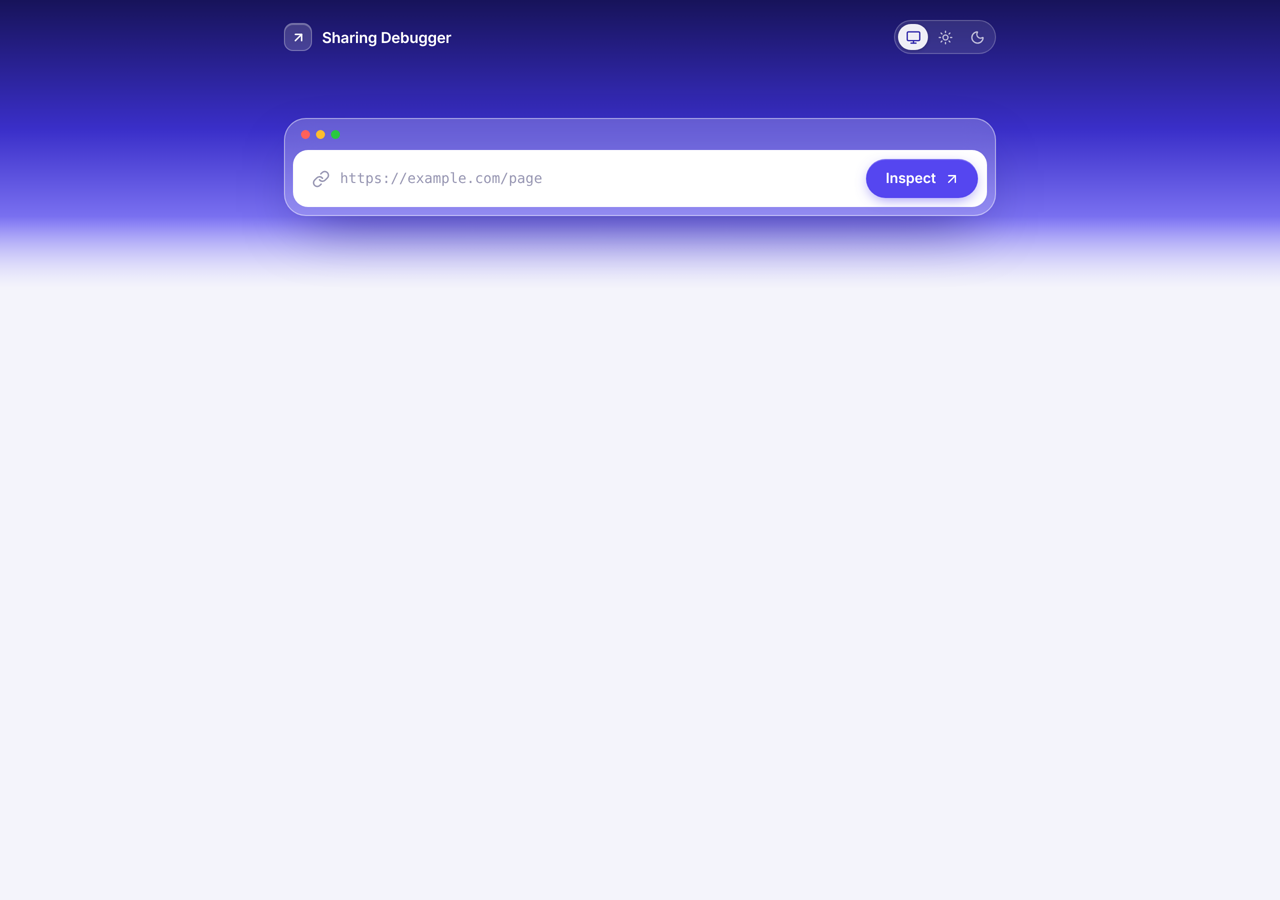
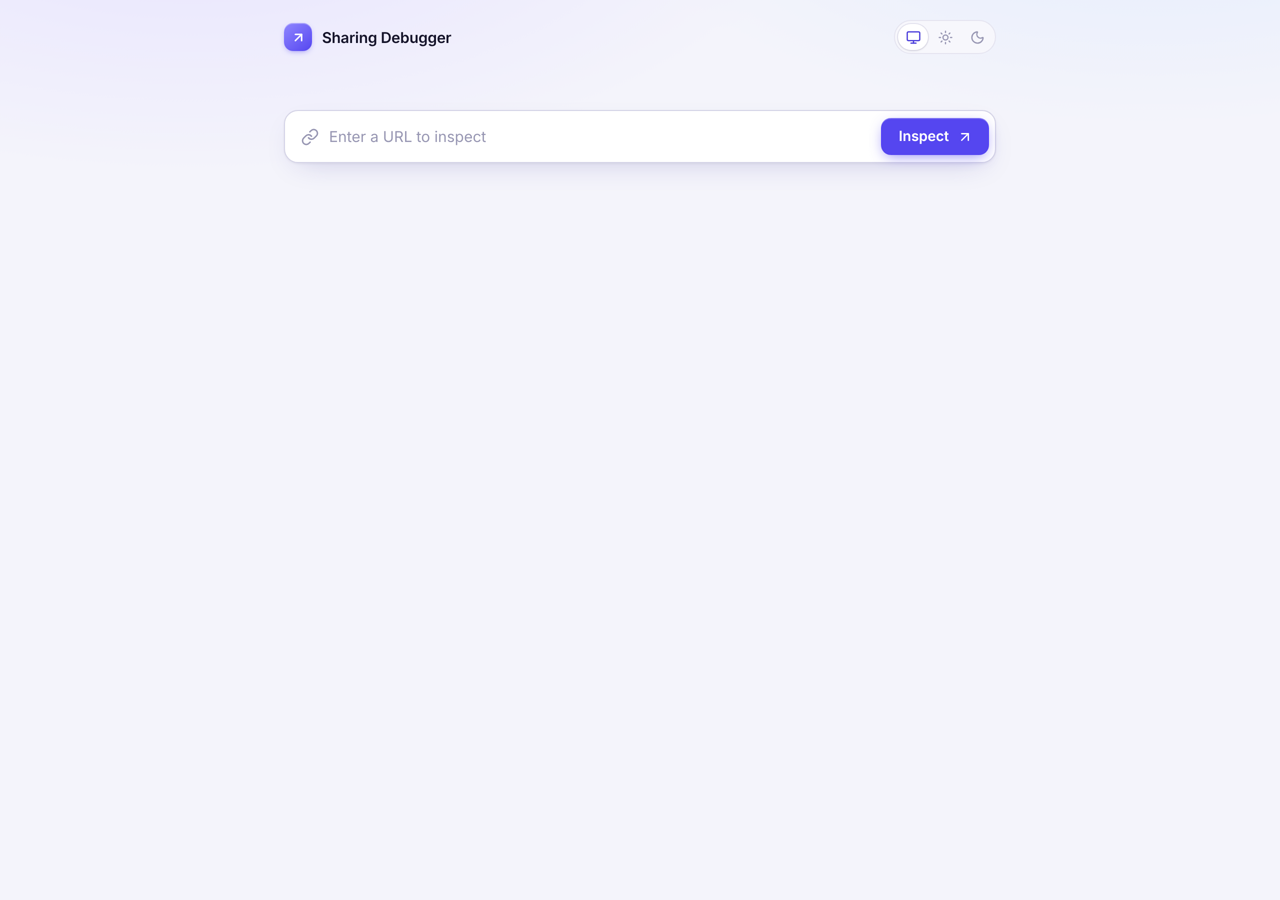
Soften background, simplify URL field, center preview card
Replace the vibrant gradient band with a faint lavender wash, drop the
window-chrome frame so the URL input is a plain field with an
'Enter a URL to inspect' placeholder, and center the preview tabs and card.

Claude-Session: https://claude.ai/code/session_01VVeQM7PuvHXBK4juM8KUdd

Changed region(s): [[0.0, 0.0, 1.0, 0.3111]]

diff --git a/public/style.css b/public/style.css
@@ -10,8 +10,8 @@
   --accent: #5546f0;
   --accent-hover: #4637e2;
   --accent-text: #4a3ddb;
-  --band: linear-gradient(180deg, #17135a 0%, #3a2fc9 45%, #7f76f4 78%, #c4c0fb 100%);
-  --band-fade: #f4f4fb;
+  --wash-1: #e6e2ff;
+  --wash-2: #e2ecfd;
   --ok: #157a50;
   --ok-soft: #e6f6ee;
   --ok-border: #bfe6d1;
@@ -37,7 +37,7 @@
     --bg: #0c0b16; --surface: #15141f; --surface-2: #1b1a27; --border: #272637; --border-strong: #35344b;
     --text: #ecebf5; --muted: #a09fbb; --faint: #6d6c88;
     --accent: #6f62ff; --accent-hover: #8076ff; --accent-text: #a9a1ff;
-    --band: linear-gradient(180deg, #08071f 0%, #1d1880 50%, #2e269e 80%, #17143f 100%); --band-fade: #0c0b16;
+    --wash-1: #1d1946; --wash-2: #121a33;
     --ok: #5fd39b; --ok-soft: #10261c; --ok-border: #1d4a34;
     --warn: #f3bd5a; --warn-soft: #2a200d; --warn-border: #5a4214; --warn-dot: #f3bd5a;
     --danger: #f07a7a; --danger-soft: #311717; --link: #8ab4f8;
@@ -49,7 +49,7 @@
   --bg: #0c0b16; --surface: #15141f; --surface-2: #1b1a27; --border: #272637; --border-strong: #35344b;
   --text: #ecebf5; --muted: #a09fbb; --faint: #6d6c88;
   --accent: #6f62ff; --accent-hover: #8076ff; --accent-text: #a9a1ff;
-  --band: linear-gradient(180deg, #08071f 0%, #1d1880 50%, #2e269e 80%, #17143f 100%); --band-fade: #0c0b16;
+  --wash-1: #1d1946; --wash-2: #121a33;
   --ok: #5fd39b; --ok-soft: #10261c; --ok-border: #1d4a34;
   --warn: #f3bd5a; --warn-soft: #2a200d; --warn-border: #5a4214; --warn-dot: #f3bd5a;
   --danger: #f07a7a; --danger-soft: #311717; --link: #8ab4f8;
@@ -68,30 +68,25 @@ button { border: 0; background: none; cursor: pointer; white-space: nowrap; }
 
 .shell { max-width: 760px; margin: 0 auto; padding: 0 24px; }
 
-/* Gradient band holding the header and the URL composer */
-.band { position: relative; background: var(--band); padding-bottom: 72px; }
-.band::after { content: ""; position: absolute; inset: auto 0 0; height: 72px; background: linear-gradient(transparent, var(--band-fade)); pointer-events: none; }
-header { display: flex; align-items: center; justify-content: space-between; padding: 20px 0 64px; }
-.brand { display: inline-flex; align-items: center; gap: 10px; color: #fff; text-decoration: none; font-size: 15px; font-weight: 600; letter-spacing: -.01em; }
-.logo { display: grid; place-items: center; width: 28px; height: 28px; border-radius: 9px; background: rgb(255 255 255 / .16); border: 1px solid rgb(255 255 255 / .28); box-shadow: inset 0 1px 0 rgb(255 255 255 / .25); }
+/* Soft wash behind the header and the URL field */
+.band { padding-bottom: 48px; background: radial-gradient(900px 420px at 15% -120px, var(--wash-1), transparent 70%) no-repeat, radial-gradient(800px 380px at 90% -140px, var(--wash-2), transparent 70%) no-repeat; }
+header { display: flex; align-items: center; justify-content: space-between; padding: 20px 0 56px; }
+.brand { display: inline-flex; align-items: center; gap: 10px; color: var(--text); text-decoration: none; font-size: 15px; font-weight: 600; letter-spacing: -.01em; }
+.logo { display: grid; place-items: center; width: 28px; height: 28px; border-radius: 9px; color: #fff; background: linear-gradient(140deg, #8f86ff, var(--accent)); box-shadow: inset 0 1px 0 rgb(255 255 255 / .3), 0 2px 6px -2px color-mix(in srgb, var(--accent) 60%, transparent); }
 .logo .icon { width: 15px; height: 15px; stroke-width: 2.4; }
 
-.theme { display: inline-flex; padding: 3px; gap: 2px; border-radius: 999px; background: rgb(255 255 255 / .1); border: 1px solid rgb(255 255 255 / .22); backdrop-filter: blur(8px); }
-.theme button { display: grid; place-items: center; width: 30px; height: 26px; border-radius: 999px; color: rgb(255 255 255 / .7); transition: background .15s, color .15s; }
-.theme button:hover { color: #fff; }
-.theme button[aria-checked="true"] { background: rgb(255 255 255 / .92); color: #2a22a8; box-shadow: 0 1px 3px rgb(0 0 0 / .2); }
+.theme { display: inline-flex; padding: 3px; gap: 2px; border-radius: 999px; background: var(--surface-2); border: 1px solid var(--border); }
+.theme button { display: grid; place-items: center; width: 30px; height: 26px; border-radius: 999px; color: var(--faint); transition: background .15s, color .15s; }
+.theme button:hover { color: var(--text); }
+.theme button[aria-checked="true"] { background: var(--surface); color: var(--accent-text); box-shadow: 0 1px 2px rgb(0 0 0 / .08), 0 0 0 1px var(--border); }
 .theme .icon { width: 15px; height: 15px; }
 
-.composer { position: relative; z-index: 1; padding: 0 8px 8px; border-radius: 22px; background: rgb(255 255 255 / .22); border: 1px solid rgb(255 255 255 / .45); box-shadow: 0 24px 60px -24px rgb(15 10 80 / .55); backdrop-filter: blur(14px); }
-.chrome { display: flex; gap: 6px; padding: 11px 8px; }
-.chrome i { width: 9px; height: 9px; border-radius: 50%; background: rgb(255 255 255 / .6); }
-.chrome i:nth-child(1) { background: #ff6159; } .chrome i:nth-child(2) { background: #ffbd2e; } .chrome i:nth-child(3) { background: #28c840; }
-.field { display: flex; align-items: center; gap: 10px; padding: 8px 8px 8px 18px; background: var(--surface); border-radius: 15px; border: 1px solid transparent; transition: border-color .15s, box-shadow .15s; }
+.field { display: flex; align-items: center; gap: 10px; padding: 6px 6px 6px 16px; background: var(--surface); border-radius: 14px; border: 1px solid var(--border-strong); box-shadow: var(--shadow); transition: border-color .15s, box-shadow .15s; }
 .field:focus-within { border-color: var(--accent); box-shadow: 0 0 0 4px color-mix(in srgb, var(--accent) 18%, transparent); }
 .field-icon { color: var(--faint); width: 18px; height: 18px; }
-input { flex: 1; min-width: 0; border: 0; outline: 0; background: transparent; padding: 10px 0; font-family: var(--mono); font-size: 14px; }
+input { flex: 1; min-width: 0; border: 0; outline: 0; background: transparent; padding: 10px 0; font-size: 15px; }
 input::placeholder { color: var(--faint); }
-#submit { display: inline-flex; align-items: center; gap: 8px; padding: 11px 18px 11px 20px; border-radius: 999px; background: var(--accent); color: #fff; font-size: 14px; font-weight: 600; box-shadow: inset 0 1px 0 rgb(255 255 255 / .22), 0 4px 14px -4px color-mix(in srgb, var(--accent) 70%, transparent); transition: background .15s, transform .05s; }
+#submit { display: inline-flex; align-items: center; gap: 8px; padding: 10px 16px 10px 18px; border-radius: 10px; background: var(--accent); color: #fff; font-size: 14px; font-weight: 600; box-shadow: inset 0 1px 0 rgb(255 255 255 / .22), 0 4px 14px -4px color-mix(in srgb, var(--accent) 70%, transparent); transition: background .15s, transform .05s; }
 #submit:hover { background: var(--accent-hover); }
 #submit:active { transform: translateY(1px); }
 #submit:disabled { cursor: wait; opacity: .85; }
@@ -119,14 +114,14 @@ main { padding-bottom: 64px; }
 .badge.warn { background: var(--warn-soft); border-color: var(--warn-border); color: var(--warn); }
 
 /* Preview tabs */
-.tabs { display: inline-flex; gap: 2px; padding: 4px; margin-bottom: 12px; border-radius: 999px; background: var(--surface-2); border: 1px solid var(--border); }
+.tabs { display: flex; width: fit-content; gap: 2px; padding: 4px; margin: 0 auto 12px; border-radius: 999px; background: var(--surface-2); border: 1px solid var(--border); }
 .tabs [role="tab"] { display: inline-flex; align-items: center; gap: 7px; padding: 7px 14px; border-radius: 999px; font-size: 13px; font-weight: 500; color: var(--muted); transition: background .15s, color .15s; }
 .tabs [role="tab"]:hover { color: var(--text); }
 .tabs [role="tab"][aria-selected="true"] { background: var(--surface); color: var(--text); box-shadow: 0 1px 2px rgb(0 0 0 / .08), 0 0 0 1px var(--border); }
 .tabs .icon { width: 14px; height: 14px; }
 .tabs [aria-selected="true"] .icon { color: var(--accent-text); }
 
-.panel { max-width: 600px; }
+.panel { max-width: 600px; margin: 0 auto; }
 .card { overflow: hidden; background: var(--surface); border: 1px solid var(--border); border-radius: 16px; box-shadow: var(--shadow); }
 .image-slot { aspect-ratio: 1.91 / 1; display: flex; flex-direction: column; align-items: center; justify-content: center; gap: 10px; overflow: hidden; background: var(--surface-2); color: var(--faint); font-size: 13px; border-bottom: 1px solid var(--border); }
 .image-slot .icon { width: 28px; height: 28px; stroke-width: 1.5; }
@@ -171,10 +166,10 @@ pre { margin: 0 18px 14px; padding: 12px 14px; max-height: 420px; overflow: auto
 @media (max-width: 640px) {
   .shell { padding: 0 16px; }
   header { padding-bottom: 40px; }
-  .band { padding-bottom: 56px; }
+  .band { padding-bottom: 36px; }
   #submit { padding: 11px 14px; }
   .result-top { flex-direction: column; gap: 10px; }
-  .tabs { display: flex; }
+  .tabs { width: auto; }
   .tabs [role="tab"] { flex: 1; justify-content: center; }
   td:first-child { width: 38%; }
 }

diff --git a/public/index.html b/public/index.html
@@ -23,11 +23,10 @@
     </header>
 
     <form id="inspect-form" class="composer">
-      <div class="chrome" aria-hidden="true"><i></i><i></i><i></i></div>
       <label for="url" class="visually-hidden">Page URL</label>
       <div class="field">
         <svg class="icon field-icon" aria-hidden="true"><use href="/icons.svg#link"/></svg>
-        <input id="url" name="url" type="url" placeholder="https://example.com/page" required autocomplete="off" spellcheck="false">
+        <input id="url" name="url" type="url" placeholder="Enter a URL to inspect" required autocomplete="off" spellcheck="false">
         <button id="submit" type="submit"><span class="spinner" aria-hidden="true"></span>Inspect<svg class="icon" aria-hidden="true"><use href="/icons.svg#arrow-up-right"/></svg></button>
       </div>
     </form>
